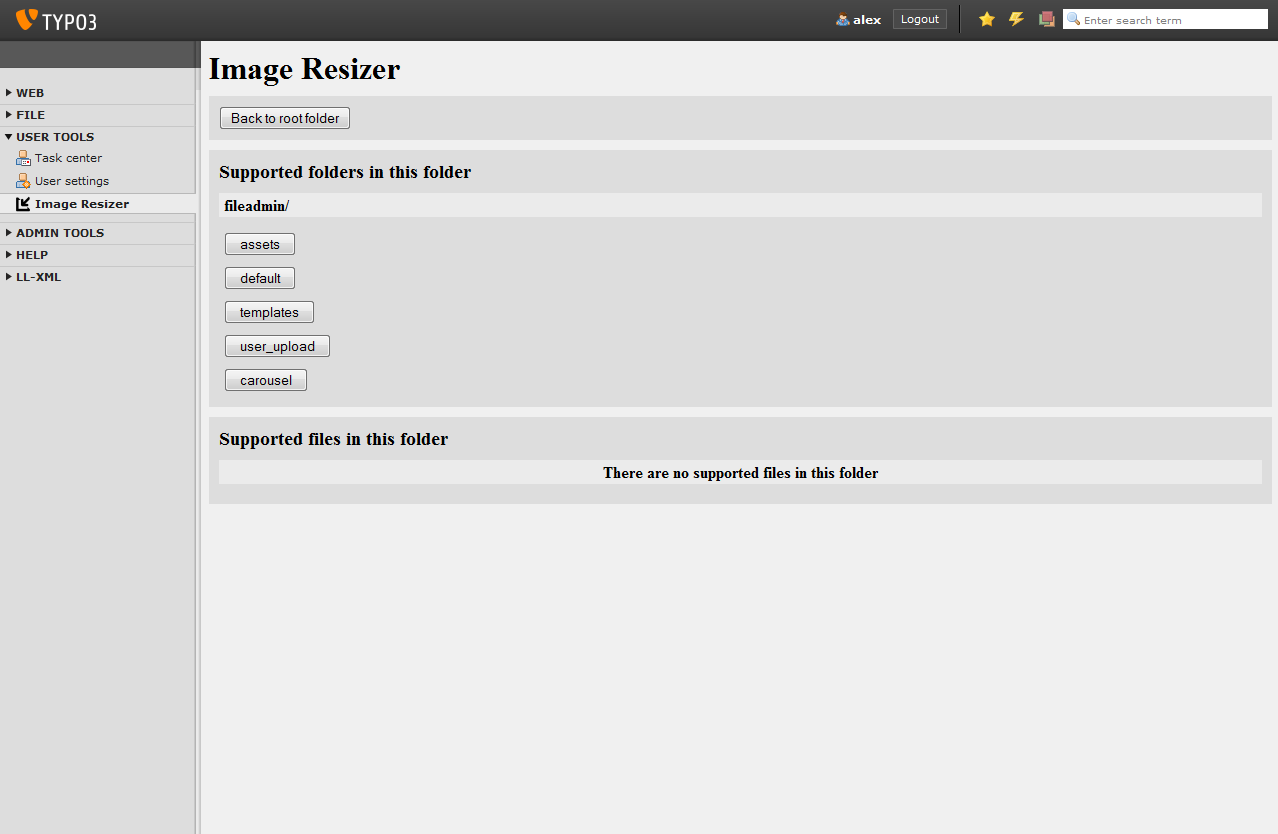
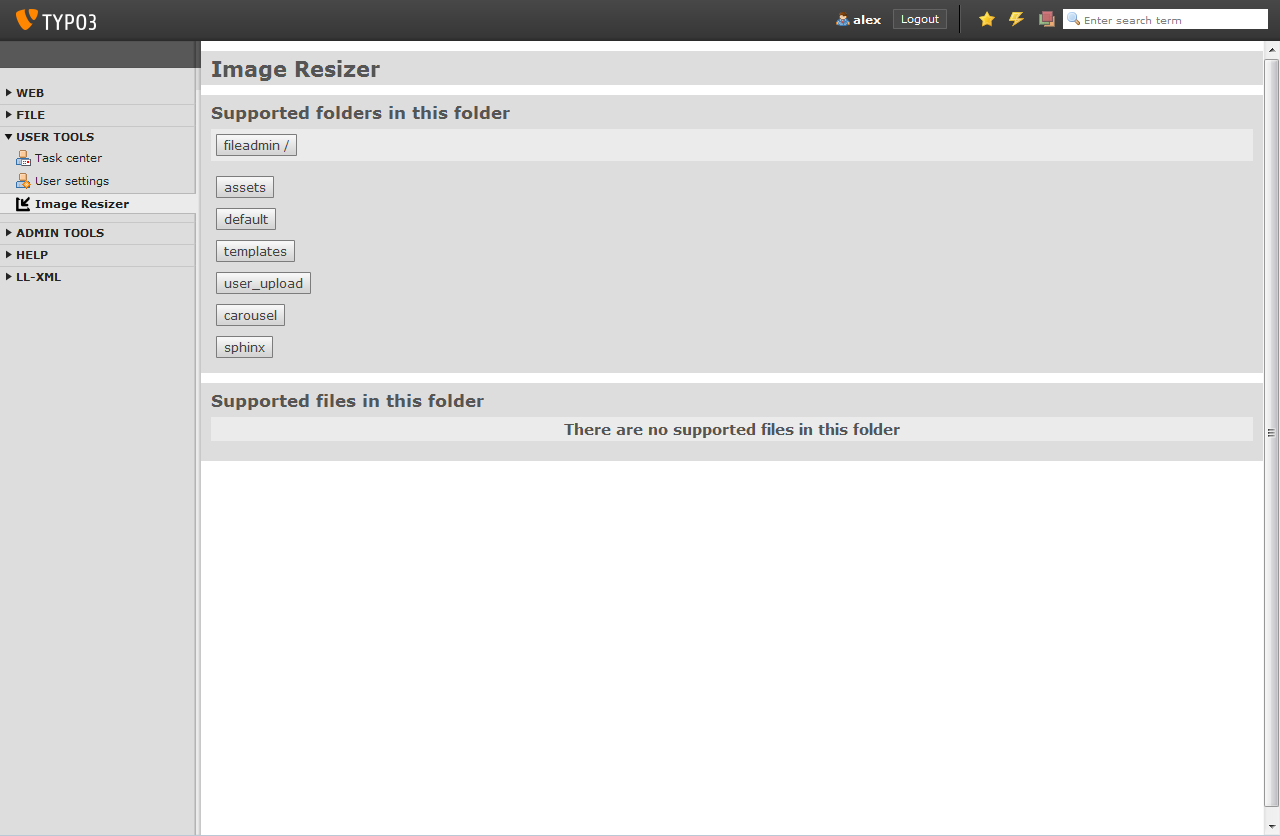
- updated screenshots and docs - refactoring - changed version to 1.3.0
git-svn-id: https://svn.typo3.org/TYPO3v4/Extensions/aw_resize/trunk@83162 735d13b6-9817-0410-8766-e36946ffe9aa

diff --git a/Resources/Public/js/windowHandler.js b/Resources/Public/js/windowHandler.js
@@ -12,71 +12,3 @@ var WindowHandler =
         this.winObj.focus();
     }
 };
-
-jQuery(function() {
-    $(".filelist")
-        .on({
-            click:function()
-            {
-                var self = $(this);
-                var width = parseInt(self.attr("data-width")) + 10;
-                var height = parseInt(self.attr("data-height")) + 10;
-
-                WindowHandler.url = self.attr("src");
-                WindowHandler.params = "width=" + width + ",height=" + height;
-
-                WindowHandler.openWindow();
-            }
-        },"img")
-    ;
-
-    $(".imageSelection")
-        .on({
-            click : function()
-            {
-                var checkboxes = $(".fileList input[type='checkbox']");
-
-                switch ($(this).attr("class"))
-                {
-                    case "all":
-                        checkboxes.prop("checked", true);
-                    break;
-
-                    case "none":
-                        checkboxes.prop("checked", false);
-                    break;
-
-                    case "invert":
-                        $.each(checkboxes, function(key, value)
-                        {
-                            $(value).prop("checked", !$(value).prop("checked"));
-                        });
-                    break;
-
-                    case "filetype_jpg":
-                        $.each($(".fileList input[type='checkbox'][data-extension='jpeg']"), function(key, value)
-                        {
-                            $(value).prop("checked", !$(value).prop("checked"));
-                        });
-                    break;
-
-                    case "filetype_png":
-                        $.each($(".fileList input[type='checkbox'][data-extension='png']"), function(key, value)
-                        {
-                            $(value).prop("checked", !$(value).prop("checked"));
-                        });
-                    break;
-
-                    case "filetype_gif":
-                        $.each($(".fileList input[type='checkbox'][data-extension='gif']"), function(key, value)
-                        {
-                            $(value).prop("checked", !$(value).prop("checked"));
-                        });
-                    break;
-
-                }
-
-                return false;
-            }
-        },"a");
-});

diff --git a/Resources/Public/js/app.js b/Resources/Public/js/app.js
@@ -1,0 +1,67 @@
+jQuery(function() {
+    $(".filelist")
+        .on({
+            click:function()
+            {
+                var self = $(this);
+                var width = parseInt(self.attr("data-width")) + 10;
+                var height = parseInt(self.attr("data-height")) + 10;
+
+                WindowHandler.url = self.attr("src");
+                WindowHandler.params = "width=" + width + ",height=" + height;
+
+                WindowHandler.openWindow();
+            }
+        },"img")
+    ;
+
+    $(".imageSelection")
+        .on({
+            click : function()
+            {
+                var checkboxes = $(".fileList input[type='checkbox']");
+
+                switch ($(this).attr("class"))
+                {
+                    case "all":
+                        checkboxes.prop("checked", true);
+                        break;
+
+                    case "none":
+                        checkboxes.prop("checked", false);
+                        break;
+
+                    case "invert":
+                        $.each(checkboxes, function(key, value)
+                        {
+                            $(value).prop("checked", !$(value).prop("checked"));
+                        });
+                        break;
+
+                    case "filetype_jpg":
+                        $.each($(".fileList input[type='checkbox'][data-extension='jpeg']"), function(key, value)
+                        {
+                            $(value).prop("checked", !$(value).prop("checked"));
+                        });
+                        break;
+
+                    case "filetype_png":
+                        $.each($(".fileList input[type='checkbox'][data-extension='png']"), function(key, value)
+                        {
+                            $(value).prop("checked", !$(value).prop("checked"));
+                        });
+                        break;
+
+                    case "filetype_gif":
+                        $.each($(".fileList input[type='checkbox'][data-extension='gif']"), function(key, value)
+                        {
+                            $(value).prop("checked", !$(value).prop("checked"));
+                        });
+                        break;
+
+                }
+
+                return false;
+            }
+        },"a");
+});

diff --git a/Classes/Domain/Repository/ResizerRepository.php b/Classes/Domain/Repository/ResizerRepository.php
@@ -1,29 +1,29 @@
 <?php
 namespace Alexweb\AwResize\Domain\Repository;
 
-/***************************************************************
- *  Copyright notice
- *
- *  (c) 2013 alex <websurfer992@gmail.com>, alex-web.gr
- *
- *  All rights reserved
- *
- *  This script is part of the TYPO3 project. The TYPO3 project is
- *  free software; you can redistribute it and/or modify
- *  it under the terms of the GNU General Public License as published by
- *  the Free Software Foundation; either version 3 of the License, or
- *  (at your option) any later version.
- *
- *  The GNU General Public License can be found at
- *  http://www.gnu.org/copyleft/gpl.html.
- *
- *  This script is distributed in the hope that it will be useful,
- *  but WITHOUT ANY WARRANTY; without even the implied warranty of
- *  MERCHANTABILITY or FITNESS FOR A PARTICULAR PURPOSE.  See the
- *  GNU General Public License for more details.
- *
- *  This copyright notice MUST APPEAR in all copies of the script!
- ***************************************************************/
+    /***************************************************************
+     *  Copyright notice
+     *
+     *  (c) 2013 alex <websurfer992@gmail.com>, alex-web.gr
+     *
+     *  All rights reserved
+     *
+     *  This script is part of the TYPO3 project. The TYPO3 project is
+     *  free software; you can redistribute it and/or modify
+     *  it under the terms of the GNU General Public License as published by
+     *  the Free Software Foundation; either version 3 of the License, or
+     *  (at your option) any later version.
+     *
+     *  The GNU General Public License can be found at
+     *  http://www.gnu.org/copyleft/gpl.html.
+     *
+     *  This script is distributed in the hope that it will be useful,
+     *  but WITHOUT ANY WARRANTY; without even the implied warranty of
+     *  MERCHANTABILITY or FITNESS FOR A PARTICULAR PURPOSE.  See the
+     *  GNU General Public License for more details.
+     *
+     *  This copyright notice MUST APPEAR in all copies of the script!
+     ***************************************************************/
 
 /**
  *
@@ -76,10 +76,11 @@ class ResizerRepository extends \TYPO3\CMS\Extbase\Persistence\Repository {
     public function getFolders()
     {
         $folders = array();
-        $protocol = "http://";
 
-        if($_SERVER["HTTPS"])
+        if(isset($_SERVER["HTTPS"]))
             $protocol = "https://";
+        else
+            $protocol = "http://";
 
         $webDir = $protocol . $_SERVER["HTTP_HOST"] . $this->relPath;
         $dir = $_SERVER["DOCUMENT_ROOT"] . $this->relPath;
@@ -112,10 +113,11 @@ class ResizerRepository extends \TYPO3\CMS\Extbase\Persistence\Repository {
     public function getFiles()
     {
         $files = array();
-        $protocol = "http://";
 
-        if($_SERVER["HTTPS"])
+        if(isset($_SERVER["HTTPS"]))
             $protocol = "https://";
+        else
+            $protocol = "http://";
 
         $webDir = $protocol . $_SERVER["HTTP_HOST"] . $this->relPath;
         $dir = $_SERVER["DOCUMENT_ROOT"] . $this->relPath;
@@ -258,8 +260,12 @@ class ResizerRepository extends \TYPO3\CMS\Extbase\Persistence\Repository {
 
                 imagegif($image_p, $savePath);
             break;
-
         }
+    }
+
+    public function getFileMountPath()
+    {
+        return $this->fileMountPath;
     }
 
     protected function getFileMountModel()
@@ -277,11 +283,5 @@ class ResizerRepository extends \TYPO3\CMS\Extbase\Persistence\Repository {
 
         return $Model;
     }
-
-    public function getFileMountPath()
-    {
-        return $this->fileMountPath;
-    }
-
 }
 ?>

diff --git a/Classes/ViewHelpers/AddPublicResourcesViewHelper.php b/Classes/ViewHelpers/AddPublicResourcesViewHelper.php
@@ -8,7 +8,8 @@ class AddPublicResourcesViewHelper extends  \TYPO3\CMS\Fluid\ViewHelpers\Be\Abst
         $pageRenderer = $doc->getPageRenderer();
 
         $pageRenderer->addCssFile('/typo3conf/ext/aw_resize/Resources/Public/css/styles.css');
-        $pageRenderer->addJsFile("/typo3/contrib/jquery/jquery-1.9.1.min.js");
+        $pageRenderer->addJsFile("/typo3/contrib/jquery/jquery-" . $pageRenderer::JQUERY_VERSION_LATEST . ".min.js");
+        $pageRenderer->addJsFile("/typo3conf/ext/aw_resize/Resources/Public/js/app.js");
         $pageRenderer->addJsFile("/typo3conf/ext/aw_resize/Resources/Public/js/windowHandler.js");
 
         $output = $this->renderChildren();

diff --git a/ext_emconf.php b/ext_emconf.php
@@ -27,7 +27,7 @@ $EM_CONF[$_EXTKEY] = array(
 	'modify_tables' => '',
 	'clearCacheOnLoad' => 0,
 	'lockType' => '',
-	'version' => '1.2.0',
+	'version' => '1.3.0',
 	'constraints' => array(
         'depends' => array(
             'typo3' => '6.1.2-6.1.3',

diff --git a/Documentation/UserManual.rst b/Documentation/UserManual.rst
@@ -11,10 +11,10 @@ Install the extension from the extension manager or download it from the TYPO3 e
 
 **Prerequisites**
 
-* An image manipulation library has to installed on the server and configured to work with TYPO3
-* Read / Write permissions for the 'fileadmin' folder and all of its sub-folders
-* An empty folder must be created under /fileadmin/user_upload titled 'dummy' this is used if the user does not have a filemount assigned to his/her usergoup
+* An image manipulation library has to installed on the server and configured to work with TYPO3.
+* Read / Write permissions for the 'fileadmin' folder and all of its sub-folders.
 * The extension assumes that the folder structure of the installation has not been altered in any way and specifically the name of the /typo3 folder has remained unchanged
+* An empty folder must be created under /fileadmin/user_upload titled 'dummy' this is used if the user does not have a filemount assigned to his/her usergoup (optional)
 
 **Configuration**
 
@@ -28,9 +28,9 @@ How it Works
 The extension will try to find the filemount from the usergroup of the user currently logged in
 
 * if many filemounts are assigned the first one will be used.
-* if no filemounts are assigned '/fileadmin/user_upload/dummy' will be used as a fallback until a filemount is assigned
-* if the user has admin rights then the user can access all the images under the fileamdin folder.
-* if the user has admin rights and belongs to usergroups with filemounts all images can be accessed under fileamdin folder.
+* if no filemounts are assigned '/fileadmin/user_upload/dummy' will be used as a fallback until a filemount is assigned.
+* if the user has admin rights then the user can access all folders under the fileamdin folder.
+* if the user has admin rights and belongs to usergroups with filemounts all folders can be accessed under the fileamdin folder.
 
 **Resize the images**
 

diff --git a/Documentation/Index.rst b/Documentation/Index.rst
@@ -4,7 +4,7 @@ Image Resizer
 
 :Extension name: Image Resizer
 :Extension key: aw_resize
-:Version: 1.2.0
+:Version: 1.3.0
 :Description: resize images in the backend on-demand
 :Language: en
 :Author: Alexandros
@@ -26,5 +26,5 @@ The content of this document is related to TYPO3, a GNU/GPL CMS/Framework availa
 What does it do
 ==============
 The extension enables backend users to resize images that reside under the filemount of the usergroup
-they are assigned to or the entire fileamdin folder if the user has admin rights.
-Folders at any depth can be reached but only .jpg, .png files are supported in this version.
+the user currently logged in is assigned to or the entire fileamdin folder if the user has admin rights.
+Folders at any depth can be reached but only .jpg, .png and .gif files are supported in this version.
